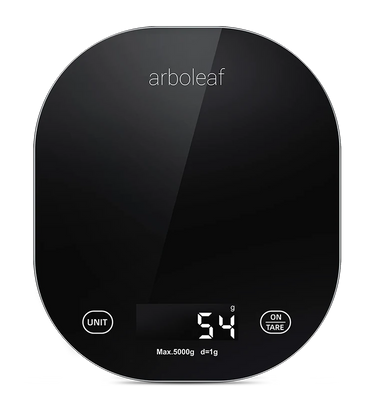
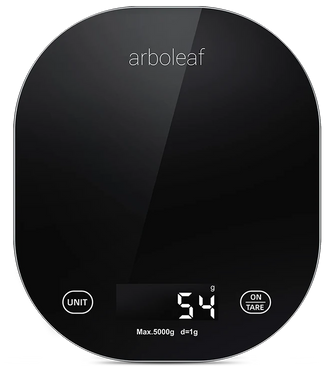
Center the scale photo under the intro, with a transparent background

Changed region(s): [[0.0305, 0.0, 1.0, 1.0], [0.3963, 0.1186, 0.6402, 0.2075]]

diff --git a/README.md b/README.md
@@ -3,12 +3,14 @@
 [![CI](https://github.com/jaxer/ha-qn-kitchen-scale/actions/workflows/ci.yml/badge.svg)](https://github.com/jaxer/ha-qn-kitchen-scale/actions/workflows/ci.yml)
 [![HACS](https://img.shields.io/badge/HACS-custom-41BDF5.svg)](https://hacs.xyz)
 
-<a href="https://www.arboleaf.com/products/food-scale-ck10a"><img src="docs/images/scale.png" alt="Arboleaf CK10A kitchen scale (photo: Arboleaf)" width="200" align="right"></a>
-
 Local Bluetooth integration for **QN-KS** kitchen scales: the ones sold as **Yolanda CK10A**,
 **Arboleaf CK10A** and under other names, with the "Yolanda" / "Arboleaf" phone app.
 No cloud, no app: Home Assistant connects to the scale through any Bluetooth adapter or
 ESPHome Bluetooth proxy and reads the weight stream directly.
+
+<p align="center">
+  <a href="https://www.arboleaf.com/products/food-scale-ck10a"><img src="docs/images/scale.png" alt="Arboleaf CK10A kitchen scale (photo: Arboleaf)" width="200"></a>
+</p>
 
 ## What you get
 
